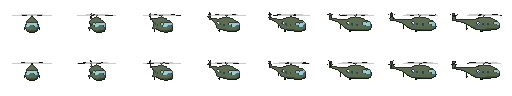
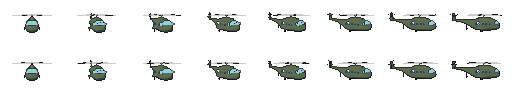
el Sea King mas fiel: parabrisas de paños enmarcados en la pendiente alta de la trompa, ventanillas de los pilotos, la fila de ventanas de la cabina y las tomas de los motores
Rehorneados el HAS.5 gris, el HC.4 verde de los comandos y su resto.

diff --git a/tools/blender/modelos_helos.py b/tools/blender/modelos_helos.py
@@ -113,12 +113,23 @@ def seaKing(T, K, ph='0', verde=False, roto=False):
         P = dict(arriba=['#5b6d55'], panza='#46543f')
     else:
         P = dict(arriba=['#56626d'], panza='#454f58')        # liso: la Armada no camuflaba
-    P['marcas'] = [dict(z=(-3.02, -2.62), y=(0.10, 0.62), color=CANOPY, arriba=False),          # el parabrisas
-                   dict(z=(-2.55, -2.15), y=(0.30, 0.62), x=(0.55, 1.2), color=CANOPY, arriba=False),  # las ventanillas de cabina
-                   dict(z=(-1.35, -1.05), y=(0.08, 0.40), x=(0.6, 1.2), color=VIDRIO_OSC, arriba=False),
-                   dict(z=(-0.55, -0.25), y=(0.08, 0.40), x=(0.6, 1.2), color=VIDRIO_OSC, arriba=False)]
+    # LAS VENTANAS de la cabina de carga: la FILA de ventanillas cuadradas a los dos costados (15/10)
+    P['marcas'] = [dict(z=(z0, z0 + 0.26), y=(0.12, 0.40), x=(0.6, 1.2), color=VIDRIO_OSC, arriba=False)
+                   for z0 in (-1.55, -1.05, -0.55, -0.05, 0.45)]
+    # EL PARABRISAS pintado sobre la pendiente ALTA de la trompa (la trompa maciza queda abajo), con sus
+    # PARANTES: el del medio y dos a los costados — cuatro paños, como el de verdad
+    P['marcas'] = [dict(z=(-3.10, -2.38), y=(0.36, 0.95), color=CANOPY, arriba=False)] + P['marcas'] + [
+        dict(z=(-3.10, -2.38), y=(0.36, 0.95), x=(-0.025, 0.025), sim=False, color='#2f363c', arriba=False),
+        dict(z=(-3.10, -2.38), y=(0.36, 0.95), x=(0.40, 0.44), color='#2f363c', arriba=False),
+        dict(z=(-3.10, -2.38), y=(0.34, 0.38), color='#2f363c', arriba=False)]
     piel = mat_pintura(K, 'pintura', P)
     oscuro = K['mat_cel']('oscuro', '#2f363c')
+    vidrio = K['mat_cel']('vidrio', CANOPY, brillo=True)
+    # EL FRENTE (15/10, "mas fiel"): el parabrisas va pintado en la trompa (ver las marcas, arriba) y aca
+    # las VENTANILLAS de los pilotos, enmarcadas, a los costados de la cabina
+    for sg in (-1, 1):
+        _pieza('ventanilla', raiz, vidrio, (0.03, 0.34, 0.50), (sg * 0.955, 0.42, -2.42))
+        _pieza('marco_vt', raiz, oscuro, (0.035, 0.36, 0.04), (sg * 0.96, 0.42, -2.42))
     # EL CASCO: seccion cuadrada (expo alto), la nariz redonda, el lomo alto, y la cola que se afina
     # SUBIENDO hacia el botalon (la quilla del bote es la linea de abajo)
     est = [(-3.20, 0.10, 0.10, -0.08), (-3.05, 0.48, 0.44, -0.04), (-2.75, 0.76, 0.70, 0.02),
@@ -132,6 +143,8 @@ def seaKing(T, K, ph='0', verde=False, roto=False):
                              (0.40, 0.30, 0.18, 1.00), (0.70, 0.05, 0.05, 0.98)], raiz, piel, n=14, expo=2.4, cerrar=(True, True)), 1)
     for sg in (-1, 1):
         elipsoide('escape', (sg * 0.45, 1.05, 0.38), (0.10, 0.09, 0.18), raiz, oscuro, seg=10, anillos=6)
+        # las TOMAS de los motores, al frente del carenado (15/10)
+        elipsoide('toma', (sg * 0.26, 1.02, -1.86), (0.14, 0.13, 0.06), raiz, oscuro, seg=12, anillos=6)
     # EL RADOMO del radar Sea Searcher (14/10, "mas fieles"): la JOROBA grande y chata detras del rotor,
     # la firma del HAS.5 — antes era un botoncito
     # (solo el HAS.5 antisubmarino: el HC.4 verde de los comandos no lleva radar)
